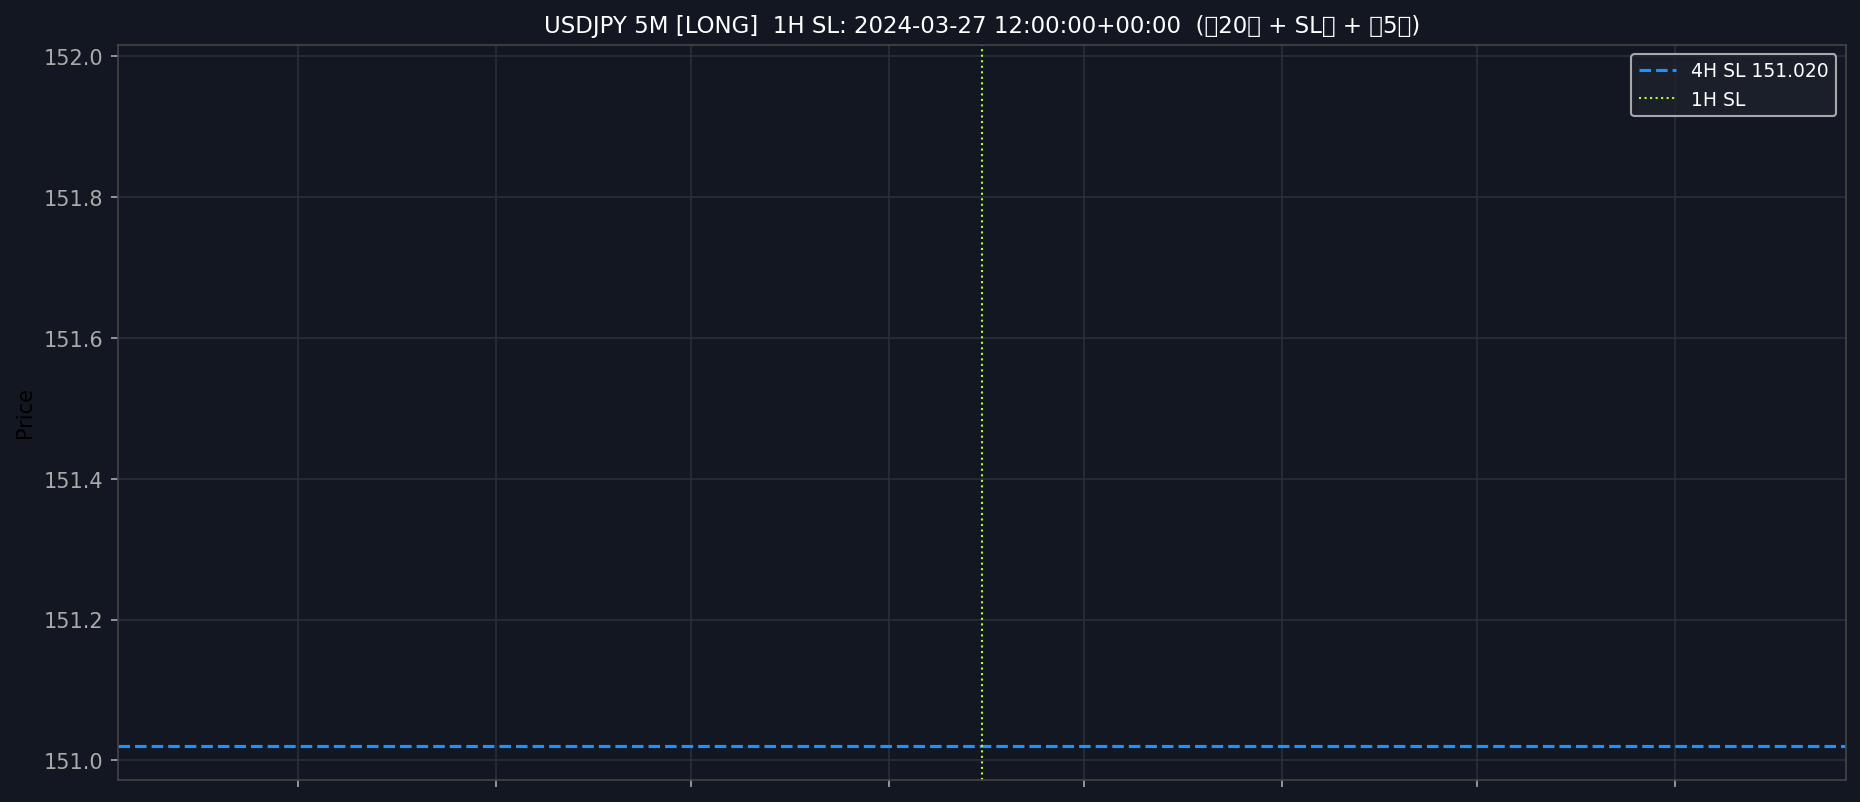
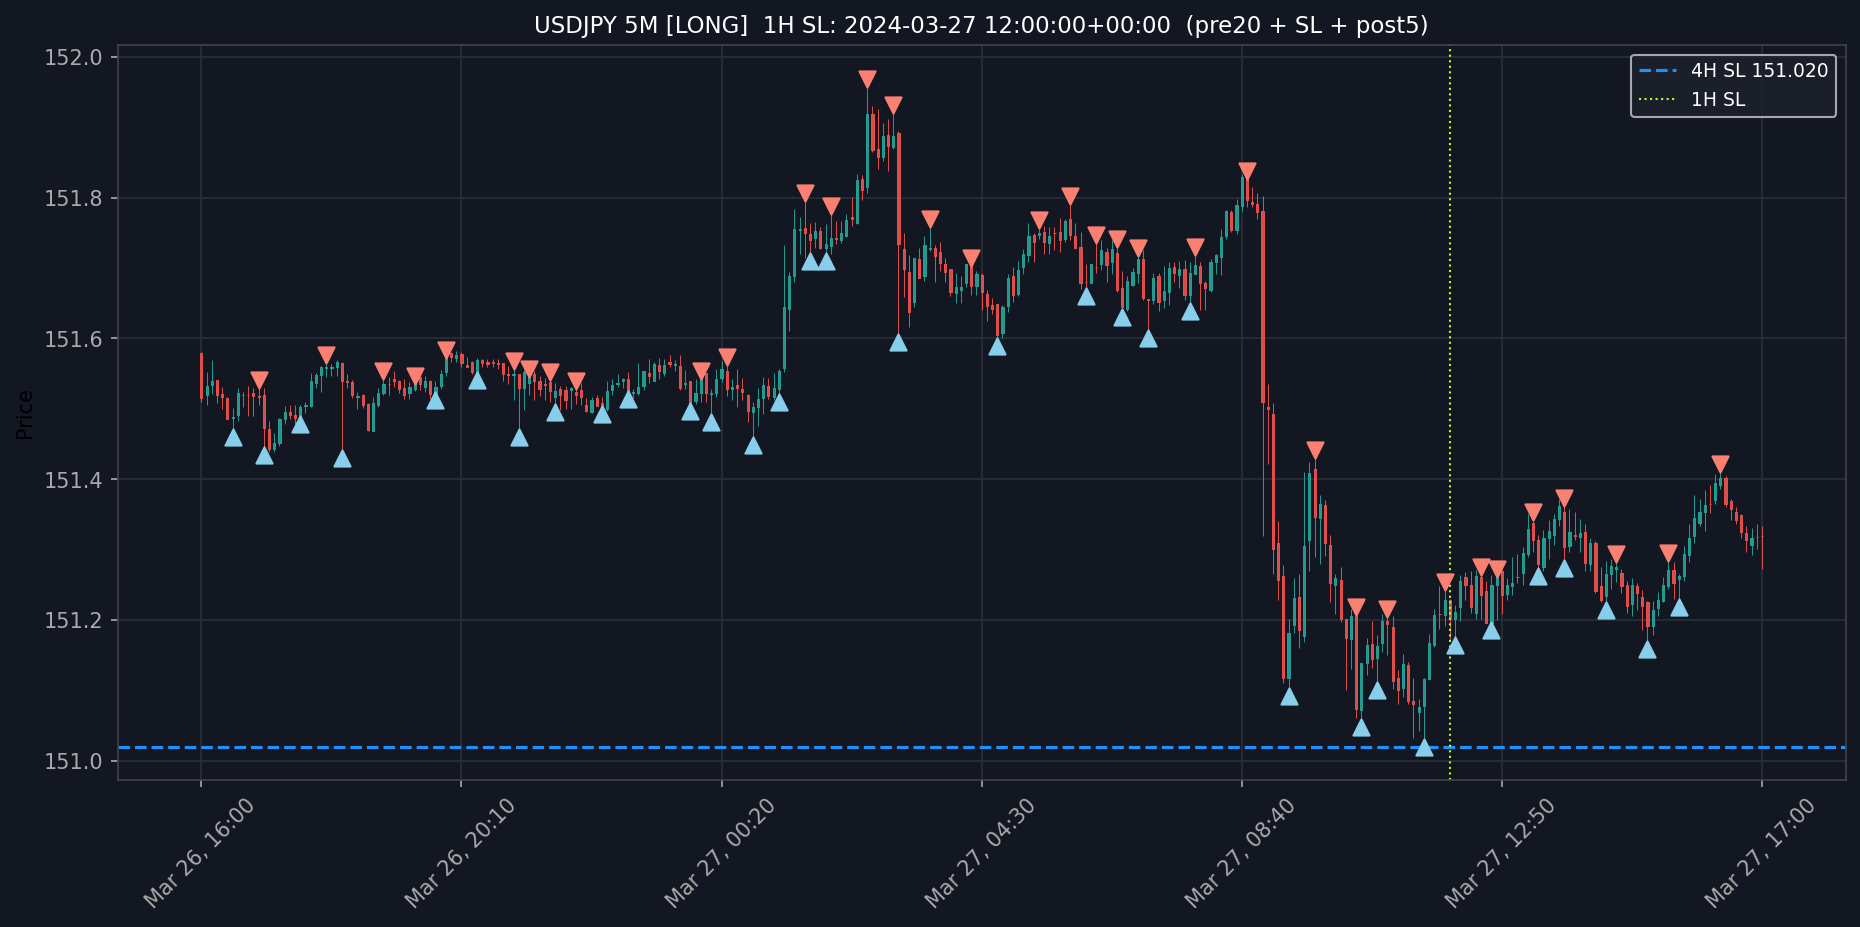
Fix: #020 plot_1h_window_5m rendering bug
- Root cause: mpf.make_addplot() creates axes[1] (empty white panel)
  that covered 22% of the figure, hiding candlestick area
- Fix: removed addplot, draw SH/SL markers via ax.scatter() on
  integer x-axis directly (no secondary axes created)
- CJK title changed to English (pre/post) to fix font tofu
- White coverage: 22.2% -> 0.1%

diff --git a/src/plotter.py b/src/plotter.py
@@ -665,8 +665,6 @@ def plot_1h_window_5m(
     # ---- 5M SH / SL 検出（窓内限定）----
     sh_mask = detect_swing_highs(df_5m_win['high'], n=2)
     sl_mask = detect_swing_lows(df_5m_win['low'],   n=2)
-    sh_vals = df_5m_win['high'].where(sh_mask)
-    sl_vals = df_5m_win['low'].where(sl_mask)
 
     # ---- mplfinance スタイル ----
     mc = mpf.make_marketcolors(
@@ -678,48 +676,46 @@ def plot_1h_window_5m(
         edgecolor='#444', gridcolor='#2a2e39'
     )
 
-    # ---- addplot（※ ax= 引数は渡さない。mplfinance の仕様。） ----
-    apds = [
-        mpf.make_addplot(sh_vals, type='scatter', marker='v',
-                         markersize=60, color='#FA8072'),
-        mpf.make_addplot(sl_vals, type='scatter', marker='^',
-                         markersize=60, color='#87CEEB'),
-    ]
-
-    # ---- returnfig=True で fig/axes を取得（正しいパターン） ----
+    # ---- addplot を使わず candle のみ描画（addplot は空 axes[1] を生成し白帯が出るバグ回避）----
     fig, axes = mpf.plot(
         df_5m_win,
         type='candle',
         style=s,
-        addplot=apds,
         returnfig=True,
         figsize=(16, 7),
     )
     ax = axes[0]
+    # 余分な axes を非表示（addplot 由来の空パネルが残る場合の保険）
+    for _ax in axes[1:]:
+        _ax.set_visible(False)
     fig.patch.set_facecolor('#131722')
     ax.set_facecolor('#131722')
+
+    # ---- 5M SH/SL マーカーを ax.scatter で手動描画（整数x軸に直接プロット）----
+    sh_x = [j for j, v in enumerate(sh_mask) if v]
+    sh_y = [float(df_5m_win['high'].iloc[j]) for j in sh_x]
+    sl_x = [j for j, v in enumerate(sl_mask) if v]
+    sl_y = [float(df_5m_win['low'].iloc[j]) for j in sl_x]
+    if sh_x:
+        ax.scatter(sh_x, sh_y, marker='v', s=60, color='#FA8072', zorder=5)
+    if sl_x:
+        ax.scatter(sl_x, sl_y, marker='^', s=60, color='#87CEEB', zorder=5)
 
     # ---- 4H SL 水平線 ----
     ax.axhline(y=sl_4h, color='#1E90FF', linewidth=1.5,
                linestyle='--', label=f'4H SL {sl_4h:.3f}')
 
-    # ---- 1H SL 足の垂直線 ----
-    # mplfinance の returnfig=True モードでは x軸が整数インデックスになる。
+    # ---- 1H SL 足の垂直線（整数インデックスで描画）----
     idx_in_win = df_5m_win.index.searchsorted(ts_sl_1h, side='left')
     if idx_in_win < len(df_5m_win):
-        try:
-            ts_for_vline = df_5m_win.index[idx_in_win]
-            ax.axvline(x=ts_for_vline, color='#ADFF2F',
-                       linewidth=1.0, linestyle=':', label='1H SL')
-        except Exception:
-            ax.axvline(x=idx_in_win, color='#ADFF2F',
-                       linewidth=1.0, linestyle=':', label='1H SL')
+        ax.axvline(x=idx_in_win, color='#ADFF2F',
+                   linewidth=1.0, linestyle=':', label='1H SL')
 
-    # ---- タイトル・凡例 ----
+    # ---- タイトル・凡例（英語タイトルに変更: CJK豆腐対策）----
     ts_str = ts_sl_1h.strftime('%Y%m%d_%H%M')
     ax.set_title(
         f'USDJPY 5M [{direction}]  1H SL: {ts_sl_1h}  '
-        f'(前{pre_bars}本 + SL足 + 後{post_bars}本)',
+        f'(pre{pre_bars} + SL + post{post_bars})',
         color='white', fontsize=11
     )
     ax.legend(facecolor='#1e222d', labelcolor='white', fontsize=9)
